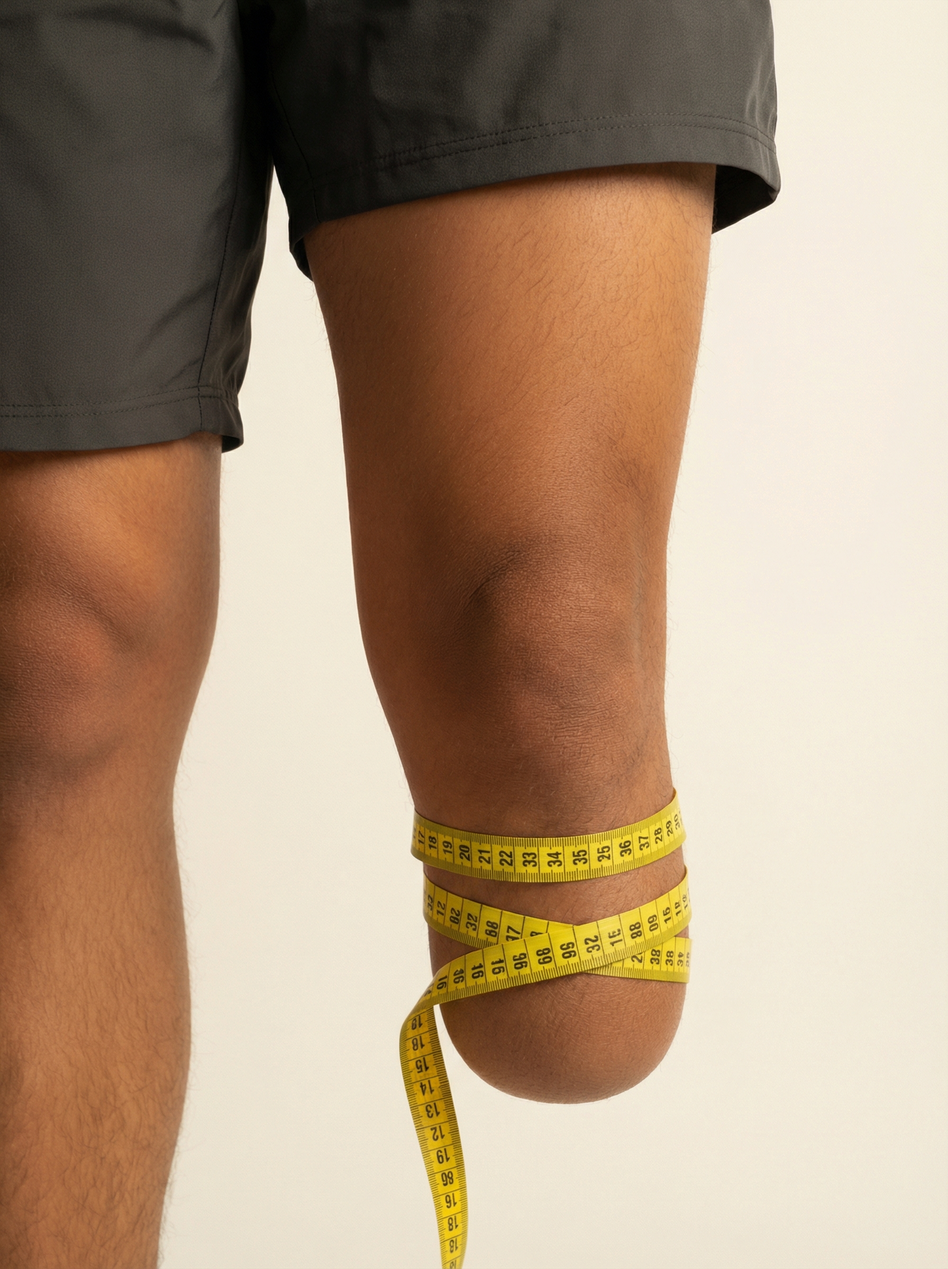
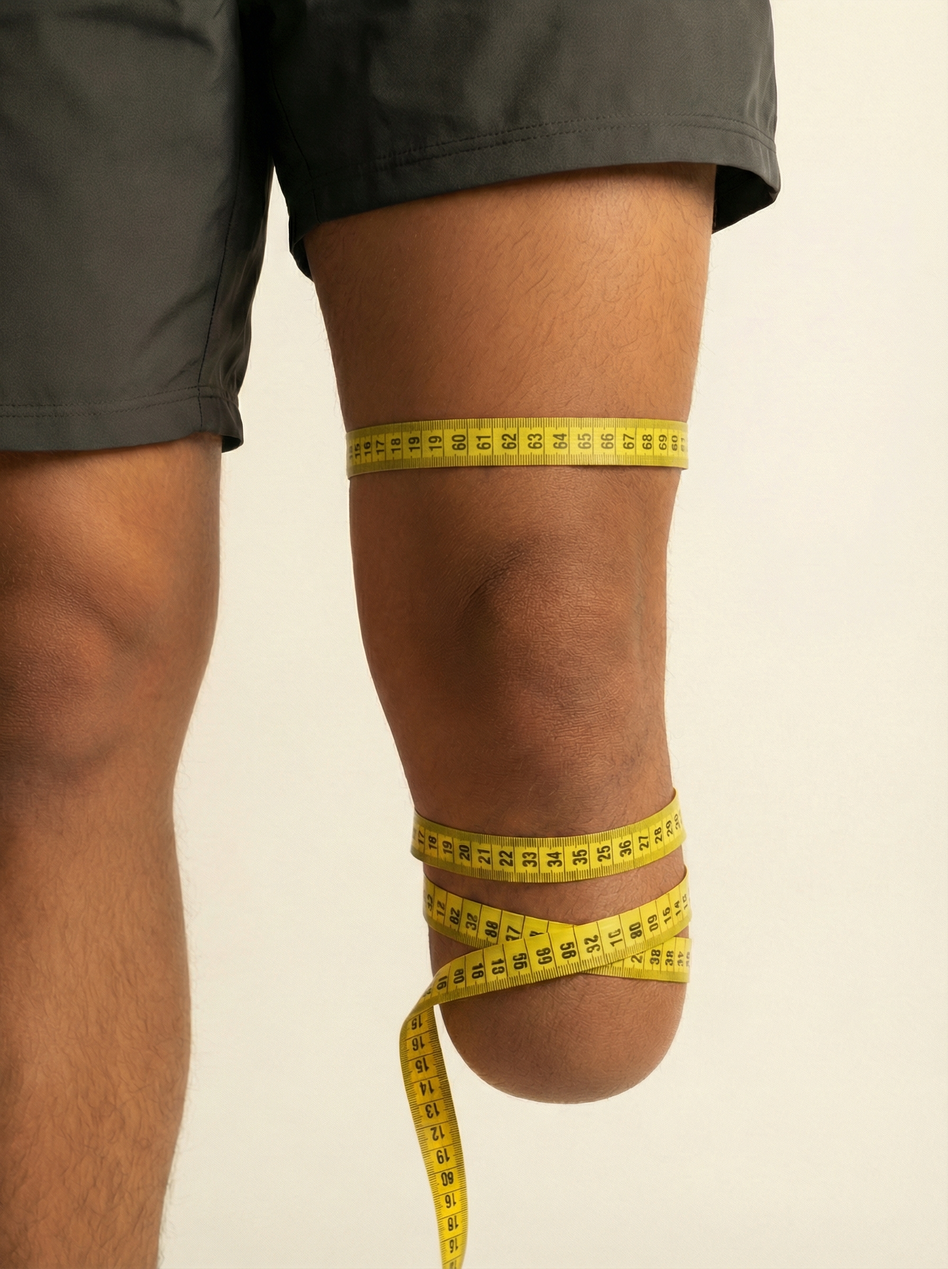
Add proximal measuring tape to BK image and fix callout positions
Regenerated BK measurement guide image with both proximal and distal
measuring tapes to match the AK image pattern. Adjusted callout label
positions to align with new tape locations.

diff --git a/src/components/SizingGuide.jsx b/src/components/SizingGuide.jsx
@@ -147,8 +147,8 @@ function MeasurementHero({ chartData }) {
           { label: 'DISTAL', sublabel: '4 cm from end', top: 74 },
         ]
       : [
-          { label: 'PROXIMAL', sublabel: '30 cm from end', top: 62 },
-          { label: 'DISTAL', sublabel: '4 cm from end', top: 78 },
+          { label: 'PROXIMAL', sublabel: '30 cm from end', top: 30 },
+          { label: 'DISTAL', sublabel: '4 cm from end', top: 68 },
         ]
     : [
         { label: 'MEASURE HERE', sublabel: '6 cm from end', top: 48 },
